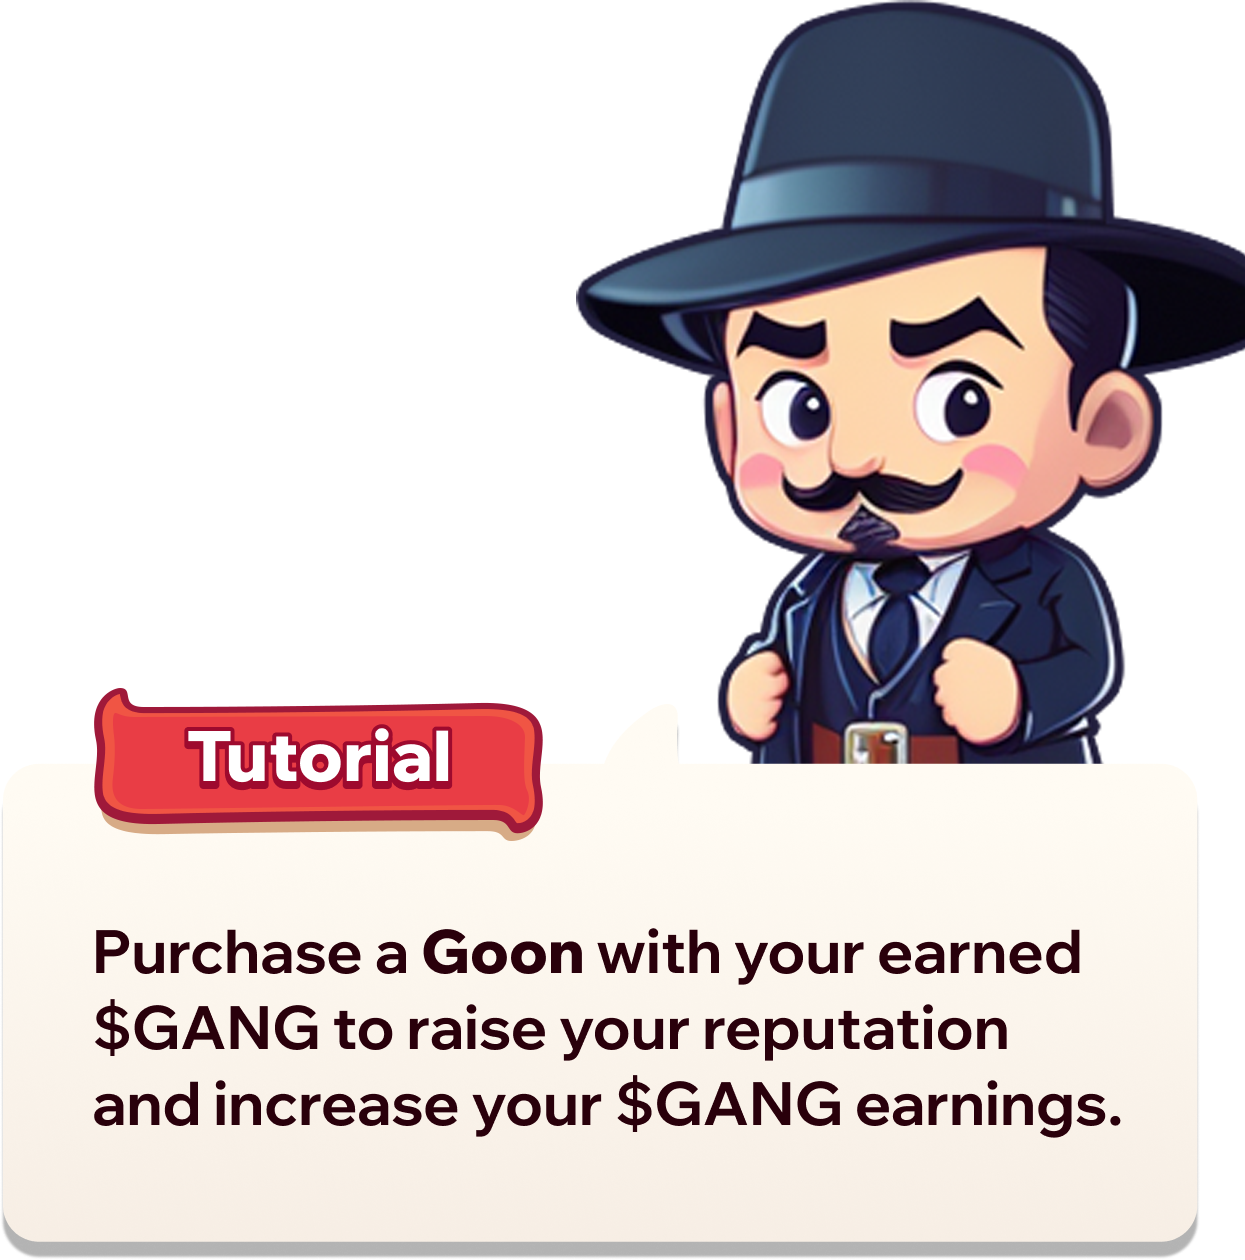
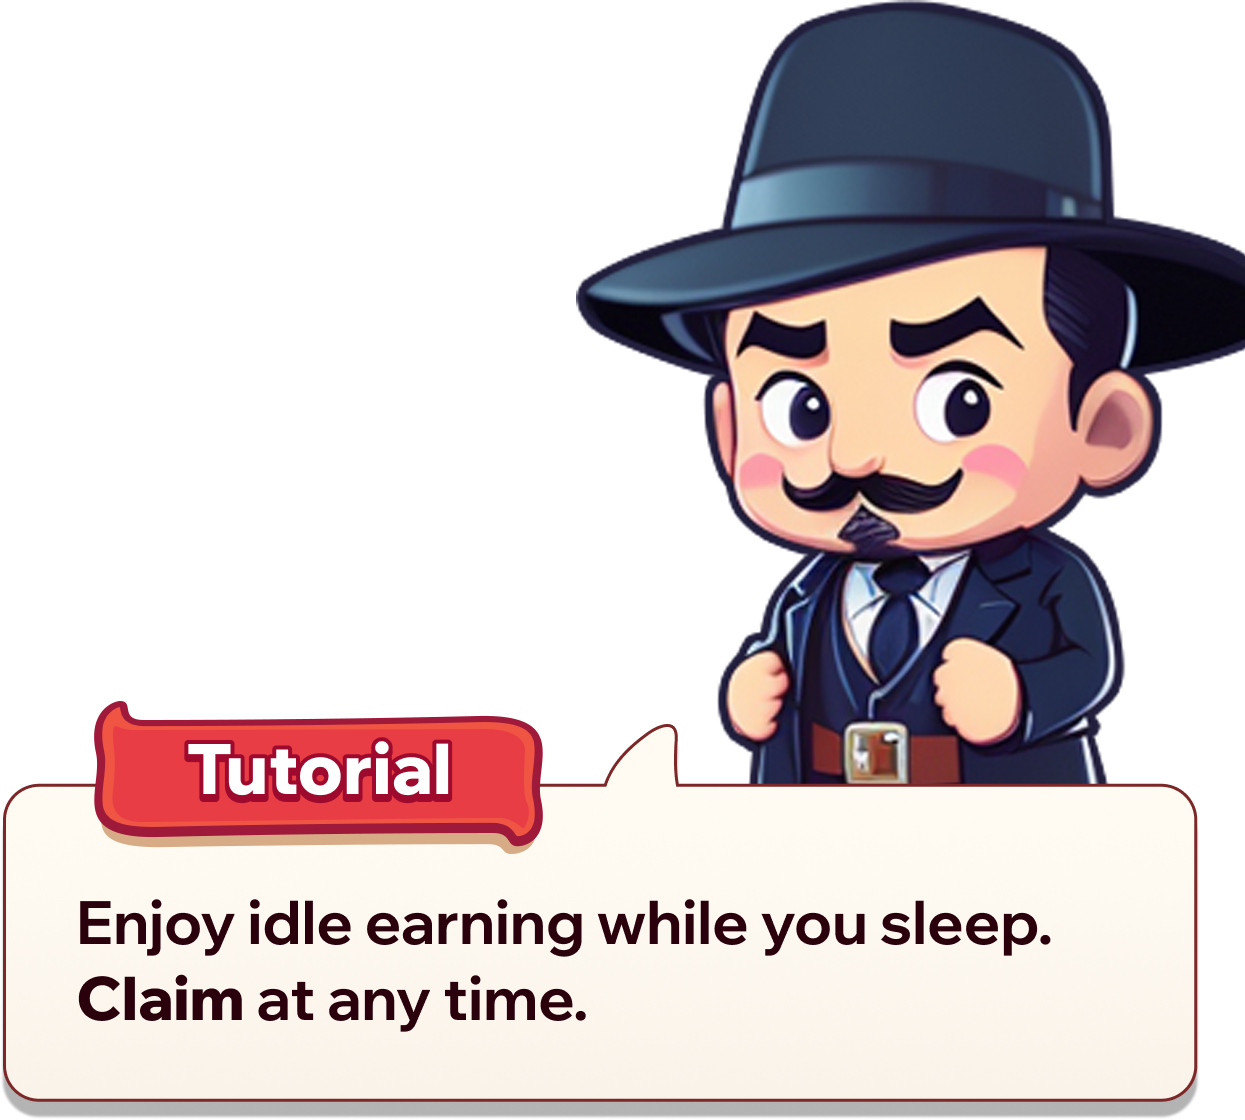
feat: step 5

diff --git a/app/src/pages/Game/components/tutorials/Step5.js b/app/src/pages/Game/components/tutorials/Step5.js
@@ -1,65 +1,59 @@
 import Phaser from 'phaser';
 
+import TutorialCharacter from './TutorialCharacter';
 import Button from '../button/Button';
 import configs from '../../configs/configs';
-import TutorialCharacter from './TutorialCharacter';
 
 const { width, height } = configs;
 
-const px = 40;
-const buttonWidth = 288;
 const y = 2600;
 
-class Step5 extends Phaser.GameObjects.Container {
-  clicked = false;
+class Step4 extends Phaser.GameObjects.Container {
   constructor(scene, onNext) {
     super(scene, 0, 0);
+    this.coinIcon = scene.add.image(width / 2, y, 'icon-coin-glowing');
 
     this.setVisible(false);
 
-    const next = () => {
-      scene.popupBuy.setVisible(false);
-      scene.popupBuyGoon.setDepth(5);
-      scene.popupBuyGoon.background?.destroy();
-      scene.popupBuyGoon.setVisible(true);
-      onNext();
-    };
-
-    this.character = new TutorialCharacter(scene, width / 2, height / 2 - 200, 'tutorial-5', () => {});
+    this.character = new TutorialCharacter(scene, width / 2, height - 1100, 'tutorial-5', () => {});
     this.add(this.character);
 
-    this.activeButton = new Button(
-      scene,
-      width - px - buttonWidth / 2,
-      y,
-      'button-buy',
-      'button-buy-pressed',
-      () => {
-        if (this.clicked) return;
-        this.clicked = true;
+    this.claimButton = new Button(scene, width / 2, y, 'tutorial-5-claim-btn', 'tutorial-5-claim-btn', () => {
+      this.startCoinAnimation();
+      scene.tutorial.setVisible(false);
+      setTimeout(() => {
+        scene.game.events.emit('simulator-claim-completed', { amount: 15000 });
+        setTimeout(() => {
+          scene.tutorial.setVisible(true);
+          onNext();
+        }, 800);
+      }, 2400);
+    });
+    this.add(this.claimButton);
 
-        this.character.y -= 400;
-        this.arrow1.setVisible(false);
-        this.arrow.setVisible(true);
-        scene.popupWar.setVisible(false);
-        scene.popupBuy.setDepth(5);
-        scene.popupBuy.updateDisabled({ goonDisabled: false, gangsterDisabled: true, houseDisabled: true });
-        scene.popupBuy.updateCallback(() => next());
-        scene.popupBuy.setVisible(!scene.popupBuy.visible);
-      },
-      { sound: 'button-1' }
-    );
-    this.add(this.activeButton);
-
-    this.arrow1 = scene.add
-      .image(this.activeButton.x, this.activeButton.y - this.activeButton.height / 2 - 20, 'tutorial-arrow-down')
-      .setOrigin(0.5, 1);
-    this.add(this.arrow1);
-
-    this.arrow = scene.add.image(width - 360, 2180, 'tutorial-arrow-right').setOrigin(1, 0);
-    this.arrow.setVisible(false);
+    this.arrow = scene.add.image(width / 2, 2500, 'tutorial-arrow-down').setOrigin(0.5, 1);
     this.add(this.arrow);
+  }
+
+  startCoinAnimation() {
+    this.scene.tweens.add({
+      targets: this.coinIcon,
+      x: [
+        width / 2 + 80,
+        width / 2 + 120,
+        width / 2 + 120,
+        width / 2 + 100,
+        width / 2 + 50,
+        width / 2,
+        width / 2 - 140,
+      ],
+      y: [y, height * 0.7, height / 2, height * 0.35, height * 0.2, height * 0.15, 250],
+      duration: 2400,
+      ease: 'Cubic.out',
+      interpolation: 'bezier', // turn the points into curve
+      hideOnComplete: true,
+    });
   }
 }
 
-export default Step5;
+export default Step4;

diff --git a/app/src/pages/Game/scenes/LoadingScene.js b/app/src/pages/Game/scenes/LoadingScene.js
@@ -407,6 +407,7 @@ class LoadingScene extends Phaser.Scene {
     this.load.image('tutorial-3', '/images/tutorial-3.png');
     this.load.image('tutorial-4', '/images/tutorial-4.png');
     this.load.image('tutorial-5', '/images/tutorial-5.png');
+    this.load.image('tutorial-5-claim-btn', '/images/tutorial-5-claim-btn.png');
     this.load.image('tutorial-7', '/images/tutorial-7.png');
     this.load.image('tutorial-9', '/images/tutorial-9.png');
     this.load.image('tutorial-11', '/images/tutorial-11.png');
